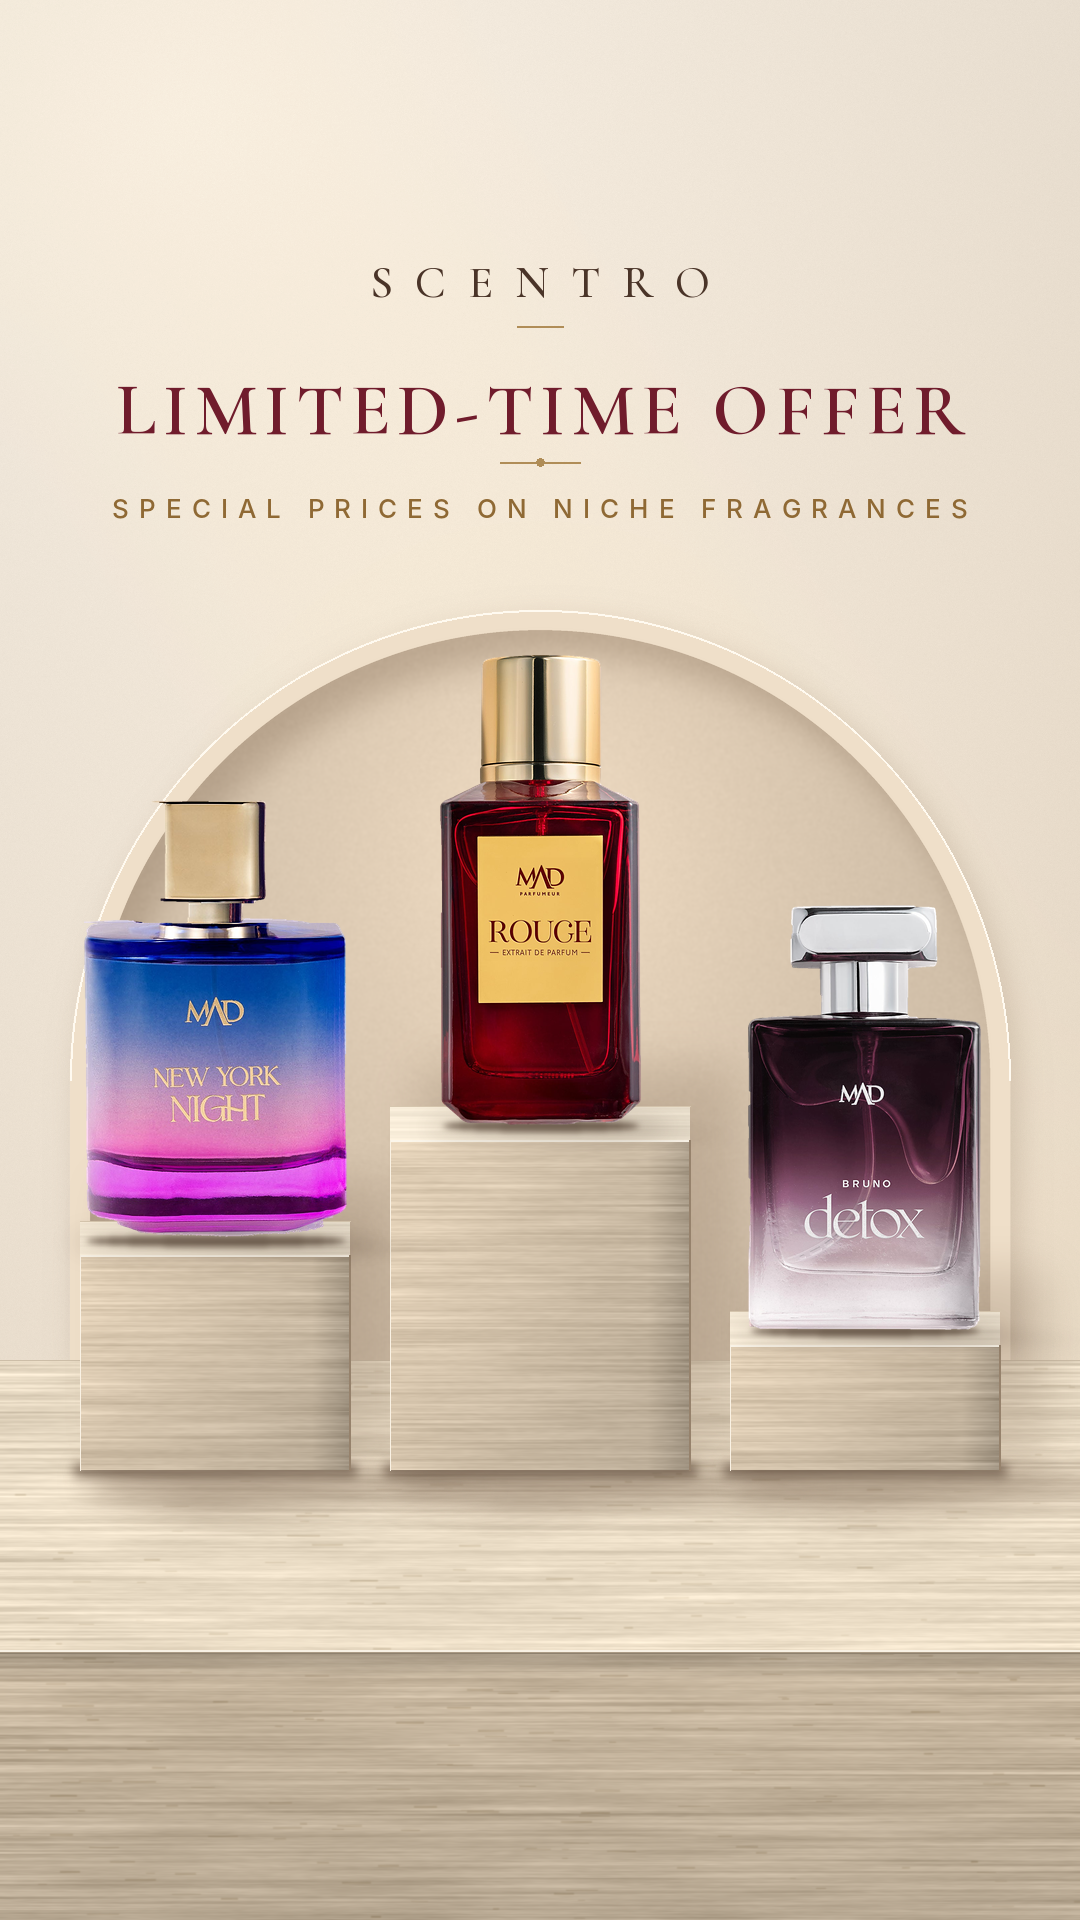
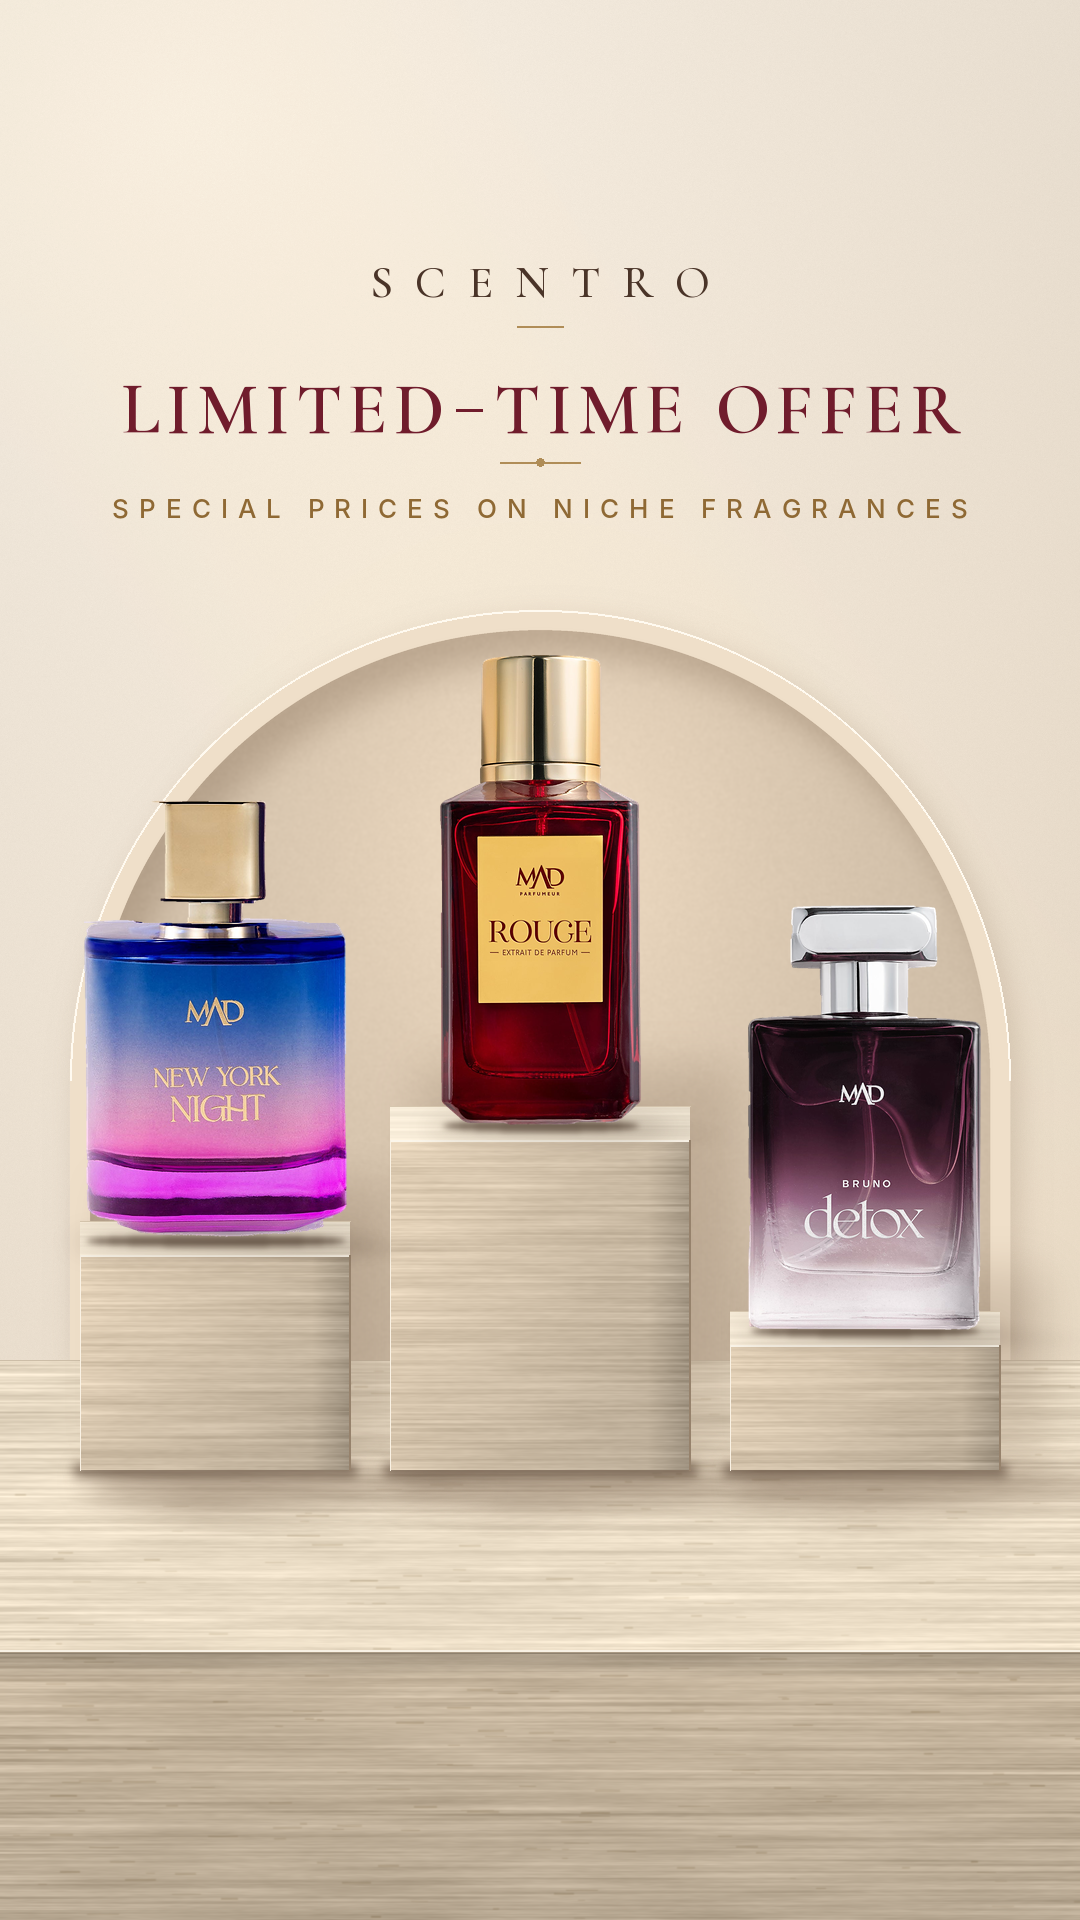
Fix dash in LIMITED-TIME: straight, cap-height-centred
Claude-Session: https://claude.ai/code/session_01UApyk7Kdwc7MEVpfJtnJsr

diff --git a/scentro/stories/build_stories.py b/scentro/stories/build_stories.py
@@ -545,8 +545,19 @@ def story_offer3():
     d = ImageDraw.Draw(img); brown, gold = (74, 52, 40), (176, 141, 87); burg = (112, 28, 44)
     tracked_in(d, 540, 282, 'SCENTRO', B.font(CORM, 46, 'Medium'), brown, 22)
     d.line((517, 326, 563, 326), fill=gold, width=2)
-    tf, size = B.fit_width(d, 'LIMITED-TIME OFFER', CORM, 'SemiBold', 92, 860, track_ratio=.09)
-    tracked_in(d, 540, 410, 'LIMITED-TIME OFFER', tf, burg, size * .09)
+    tf, size = B.fit_width(d, 'LIMITED–TIME OFFER', CORM, 'SemiBold', 92, 860, track_ratio=.09)
+    lay = Image.new('RGBA', (W, H), (0, 0, 0, 0)); ld = ImageDraw.Draw(lay)
+    tracked_in(ld, 540, 410, 'LIMITED\u2013TIME OFFER', tf, burg, size * .09)
+    a = np.array(lay.getchannel('A')); rows = np.where(a.max(1) > 0)[0]; top, bot = rows.min(), rows.max()   # cap top / baseline
+    # locate the dash: columns whose ink lies entirely inside a thin band, between the 'D' and the 'T'
+    band = (a[top:bot + 1].astype(int) > 0); ink = band.sum(0)
+    cols = np.where((ink > 0) & (ink < (bot - top) * 0.12))[0]
+    groups = np.split(cols, np.where(np.diff(cols) > 3)[0] + 1); dash = max(groups, key=len)
+    x0, x1 = int(dash.min()), int(dash.max()); dy = np.where(a[:, x0 + 2:x1 - 1].max(1) > 0)[0]; th = int(dy.max() - dy.min() + 1)
+    a2 = np.array(lay); a2[:, x0 - 2:x1 + 3] = 0; lay = Image.fromarray(a2)
+    img.alpha_composite(lay)
+    my = (top + bot) // 2 + 1; ImageDraw.Draw(img).rectangle((x0 + 3, my - th // 2, x1 - 3, my - th // 2 + th - 1), fill=burg)
+    d = ImageDraw.Draw(img)
     d.line((500, 462, 580, 462), fill=gold, width=2); d.ellipse((536, 458, 544, 466), fill=gold)
     sf, _ = B.fit_width(d, 'SPECIAL PRICES ON NICHE FRAGRANCES', INTER_M, None, 26, 920, track_px=10)
     tracked_in(d, 540, 508, 'SPECIAL PRICES ON NICHE FRAGRANCES', sf, (143, 105, 52), 10)
